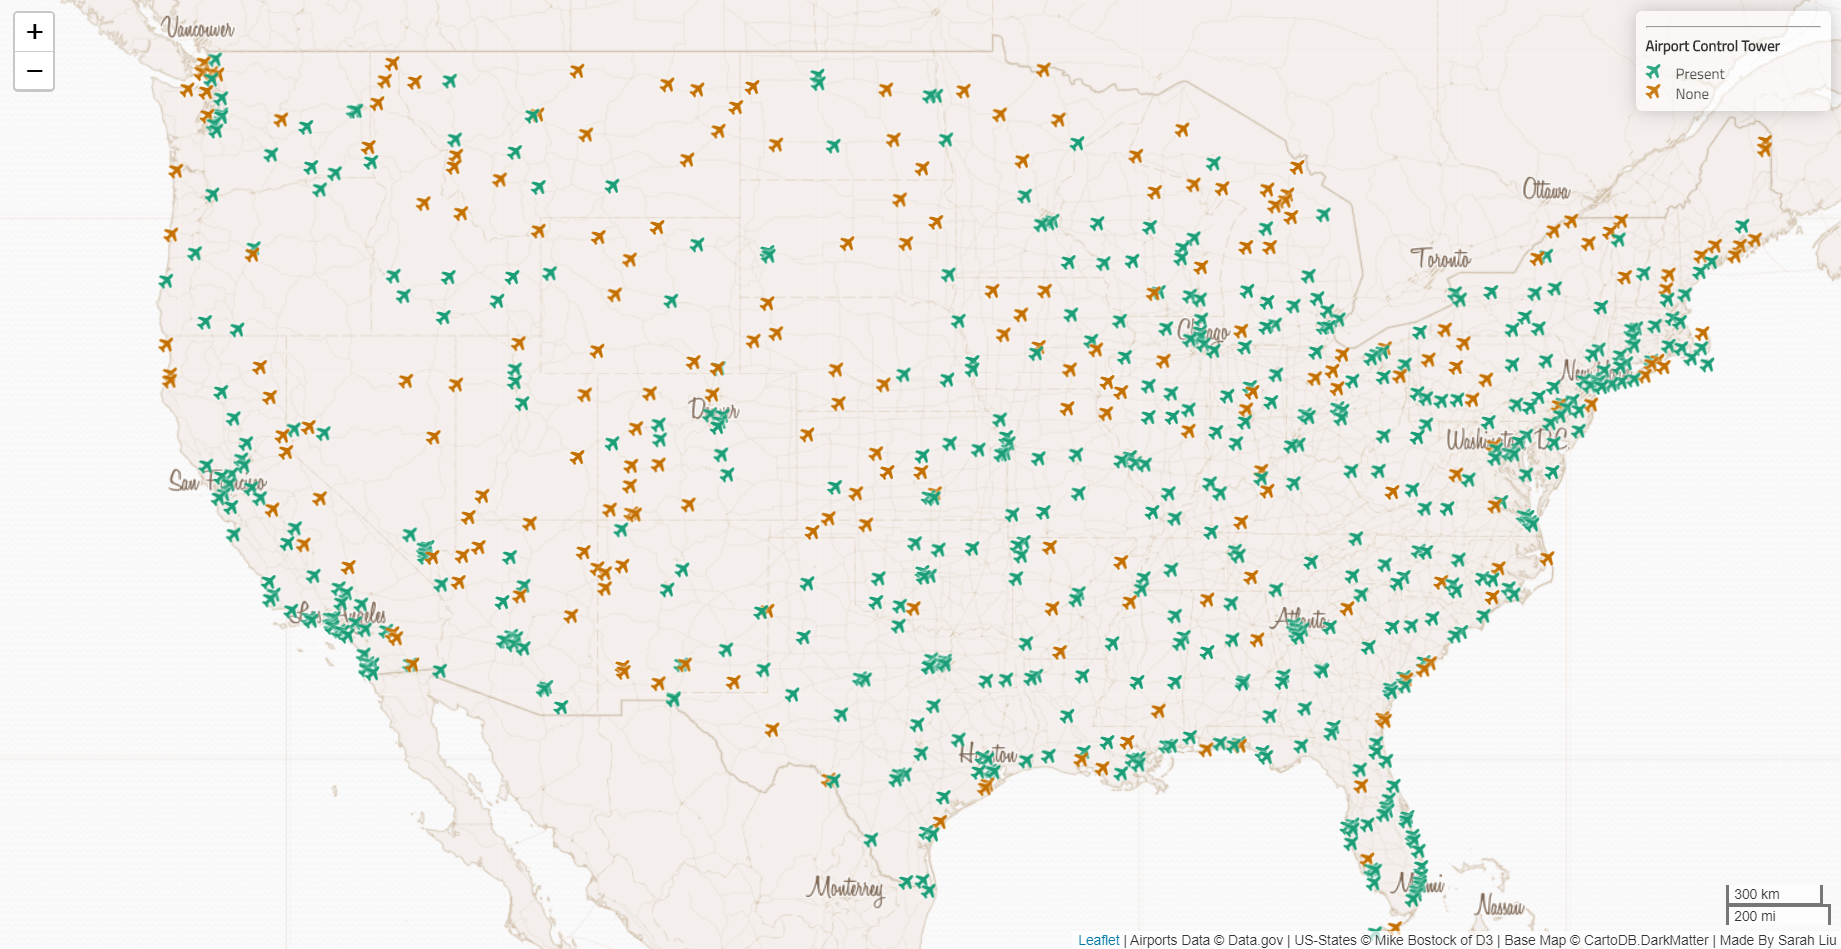
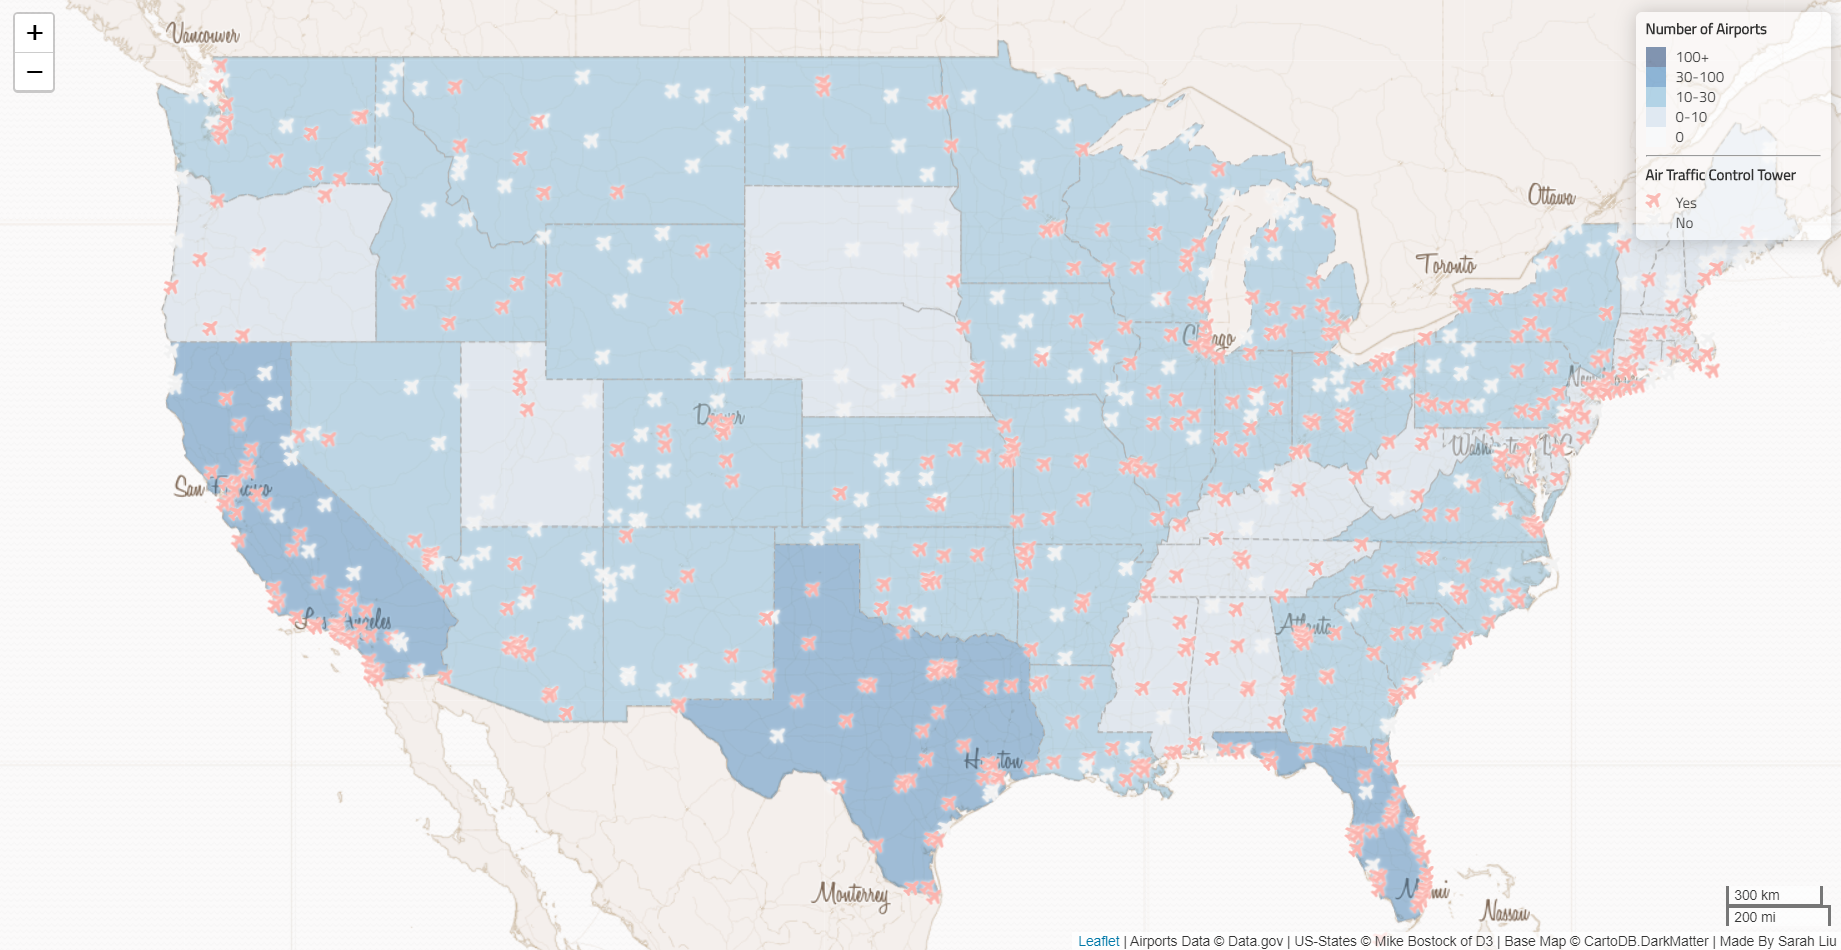
Finished lab correctly LOL

diff --git a/js/main.js b/js/main.js
@@ -1,29 +1,30 @@
 // 1. Create a map object.
 var mymap = L.map('map', {
     center: [38.46, -98.68],
-    zoom: 5,
+    zoom: 4.5,
     maxZoom: 10,
     minZoom: 3,
-    detectRetina: true});
+    detectRetina: true // detect whether the sceen is high resolution or not.
+});
 
 // 2. Add a base map.
 L.tileLayer('https://cartocdn_{s}.global.ssl.fastly.net/base-antique/{z}/{x}/{y}.png').addTo(mymap);
 
-// 3. Add airport GeoJSON Data
-// Null variable that will hold airport data
+// 3. Add airport control towers GeoJSON Data
+// Null variable that will hold airport control tower data
 var airports = null;
+// Get GeoJSON and put on it on the map when it loads
 
-// 4. build up a set of colors from colorbrewer's dark2 category
-var colors = chroma.scale('dark2').mode('lch').colors(9);
+// 4. build up a set of colors from colorbrewer's pastel1 category
+var colors = chroma.scale('Pastel1').mode('lch').colors(2);
 
 // 5. dynamically append style classes to this page. This style classes will be used for colorize the markers.
 for (i = 0; i < 9; i++) {
     $('head').append($("<style> .marker-color-" + (i + 1).toString() + " { color: " + colors[i] + "; font-size: 15px; text-shadow: 0 0 3px #ffffff;} </style>"));
 }
 
-// Get GeoJSON and put on it on the map when it loads
 airports= L.geoJson.ajax("assets/airports.geojson", {
-    // assign a function to the onEachFeature parameter of the airport object.
+    // assign a function to the onEachFeature parameter of the airport tower object.
     // Then each (point) feature will bind a popup window.
     // The content of the popup window is the value of `feature.properties.company`
     onEachFeature: function (feature, layer) {
@@ -34,44 +35,75 @@ airports= L.geoJson.ajax("assets/airports.geojson", {
         if (feature.properties.CNTL_TWR == "Y") { id = 0; }
         else if (feature.properties.CNTL_TWR == "N")  { id = 1; }
         else {id = 2; }
+        //<i class="fas fa-broadcast-tower"></i>
         return L.marker(latlng, {icon: L.divIcon({className: 'fa fa-plane marker-color-' + (id + 1).toString() })});
     },
     attribution: 'Airports Data &copy; Data.gov | US-States &copy; Mike Bostock of D3 | Base Map &copy; CartoDB.DarkMatter | Made By Sarah Liu'
 }).addTo(mymap);
 
-
 // 6. Set function for color ramp
-colors = chroma.scale('RdPu').colors(2);
+    colors = chroma.scale('Blues').colors(5); //Changing the Choropleth
 
-// 7. Set style function that sets fill color.md property equal to airport density
-function style(feature) {
-    return {
-        fillColor: setColor(feature.properties.CT_CNT),
-        fillOpacity: 0.4,
-        weight: 2,
-        opacity: 1,
-        color: '#b4b4b4',
-        dashArray: '4'
-    };
-}
+    function setColor(count) {
+        var id = 0;
+        if (count > 100) { id = 4; }
+        else if (count > 30 && count <= 100) { id = 3; }
+        else if (count > 10 && count <= 30) { id = 2; }
+        else if (count > 0 &&  count <= 10) { id = 1; }
+        else  { id = 0; }
+        return colors[id];
+    }
 
-// 9. Create Leaflet Control Object for Legend
-var legend = L.control({position: 'topright'});
+    // 7. Set style function that sets fill color.md property equal to air traffic control tower density
+    function style(feature) {
+        return {
+            fillColor: setColor(feature.properties.count),
+            fillOpacity: 0.4,
+            weight: 1,
+            opacity: 1,
+            color: '#b4b4b4',
+            dashArray: '4'
+        };
+    }
 
-    // 10. Function that runs when legend is added to map
-    legend.onAdd = function () {
+    // 8. Add county polygons
+    // create counties variable, and assign null to it.
+    var states = null;
+    states = L.geoJson.ajax("assets/us-states.geojson", {
+        style: style
+    }).addTo(mymap);
 
-        // Create Div Element and Populate it with HTML
-        var div = L.DomUtil.create('div', 'legend');
-        div.innerHTML += '<hr><b><p> Airport Control Tower </p><b><br />';
-        div.innerHTML += '<i class="fa fa-plane marker-color-1"></i><p> Present </p>';
-        div.innerHTML += '<i class="fa fa-plane marker-color-2"></i><p> None </p>';
-        // Return the Legend div containing the HTML content
-        return div;
-    };
+    var legend = L.control({position: 'topright'});
 
-    // 11. Add a legend to map
-    legend.addTo(mymap);
+        // 10. Function that runs when legend is added to map
+        legend.onAdd = function () {
 
-// 12. Add a scale bar to map
-L.control.scale({position: 'bottomright'}).addTo(mymap);
+            // Create Div Element and Populate it with HTML
+            var div = L.DomUtil.create('div', 'legend');
+            div.innerHTML += '<b><p> Number of Airports</p></b><br />';
+            div.innerHTML += '<i style="background: ' + colors[4] + '; opacity: 0.5"></i><p>100+</p>';
+            div.innerHTML += '<i style="background: ' + colors[3] + '; opacity: 0.5"></i><p>30-100</p>';
+            div.innerHTML += '<i style="background: ' + colors[2] + '; opacity: 0.5"></i><p>10-30</p>';
+            div.innerHTML += '<i style="background: ' + colors[1] + '; opacity: 0.5"></i><p> 0-10</p>';
+            div.innerHTML += '<i style="background: ' + colors[0] + '; opacity: 0.5"></i><p> 0</p>';
+            div.innerHTML += '<hr><b><p> Air Traffic Control Tower</p><b><br />';
+            div.innerHTML += '<i class="fa fa-plane marker-color-1"></i><p> Yes</p>';
+            div.innerHTML += '<i class="fa fa-plane marker-color-2"></i><p> No</p>';
+            // Return the Legend div containing the HTML content
+            return div;
+        };
+
+        // 11. Add a legend to map
+        legend.addTo(mymap);
+
+        // 12. Add a scale bar to map
+        L.control.scale({position: 'bottomright'}).addTo(mymap);
+
+        //13. Show the mouse position coordinates at the bottom left
+        var c = new L.Control.Coordinates({position: 'bottomright'});
+
+        c.addTo(mymap);
+
+        map.on('click', function(e) {
+        	c.setCoordinates(e);
+        });

diff --git a/README.md b/README.md
@@ -4,14 +4,14 @@
 
 In the `airports.geojson` file there is a field `CNTL_TWR` which indicates if the airport has an air traffic control tower present.
 
-<p>This map displays all the airports in the contiguous United States of America in 2012.</p>
+<p>This map displays all the airports in the United States of America in 2012.</p>
 
-![](img/towers.PNG)
+![](img/towers.png)
 
-<h3> Functions </h3>
-<span>&#9992;</span> Shows locations of airport towers <br>
-<span>&#9992;</span> Choropleth map shows the general freqencies of where airport towers are located at <br>
-<span>&#9992;</span> Popups show the Airport Names <br>
+<!---
+I reallllllly wanted to embed the map here :(((((
+<script type="text/javascript" src="main.js"></script>
+--->
 
 <h3>Libraries</h3>
 <span>&#9992;</span> Basemap: https://leaflet-extras.github.io/leaflet-providers/preview/ <br>
